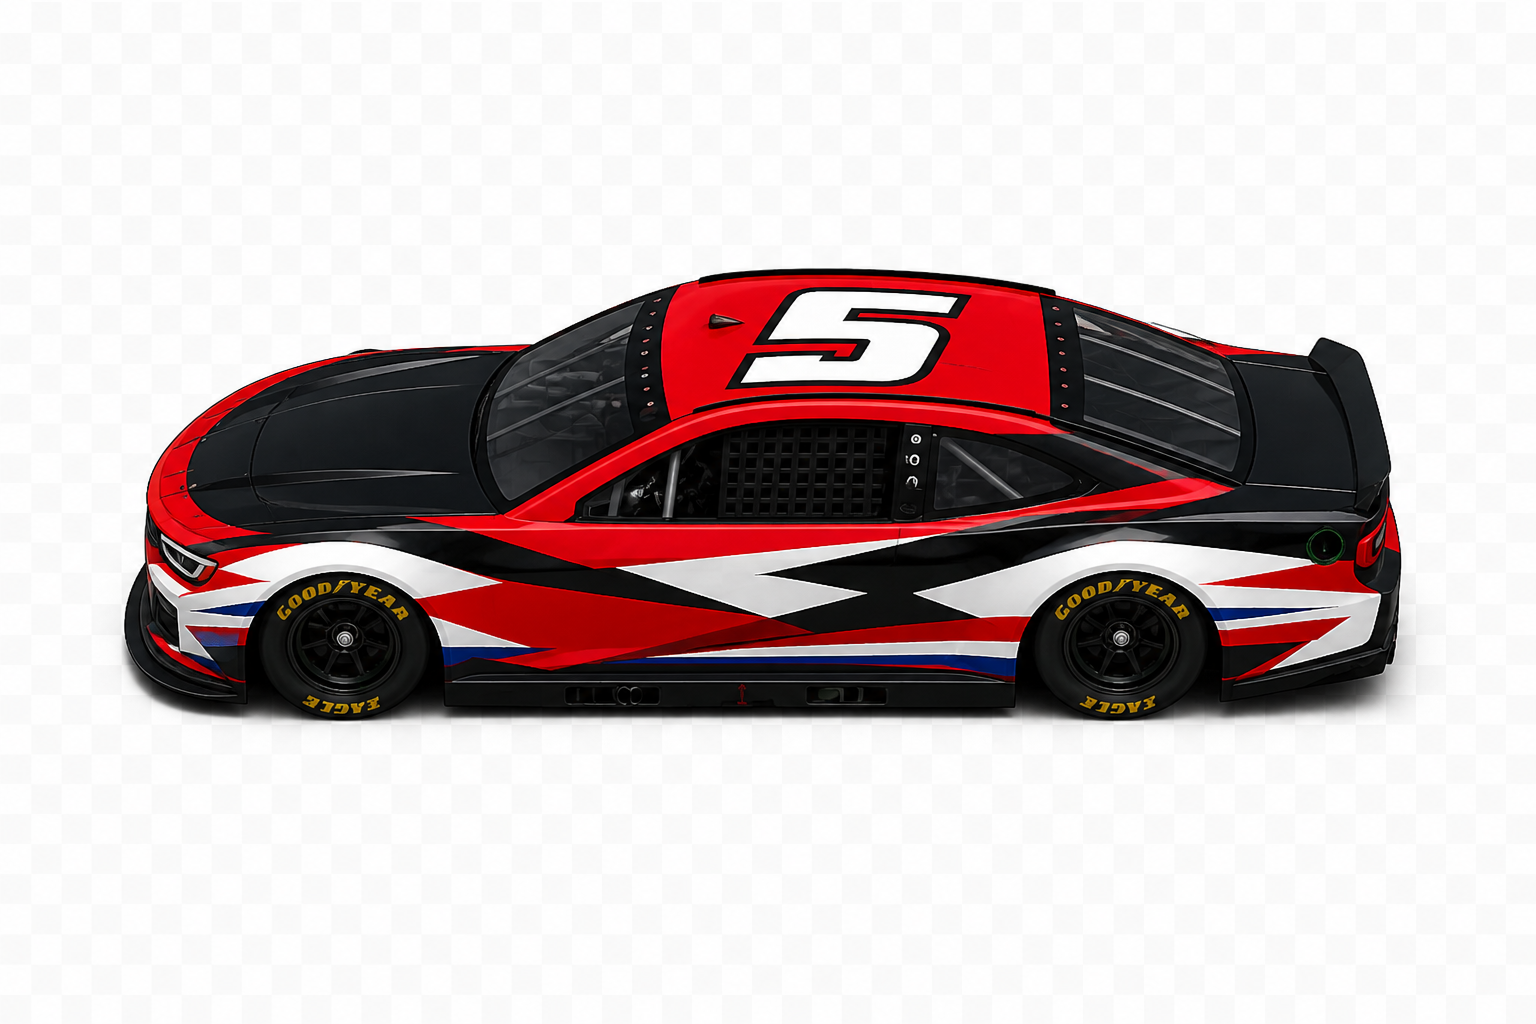
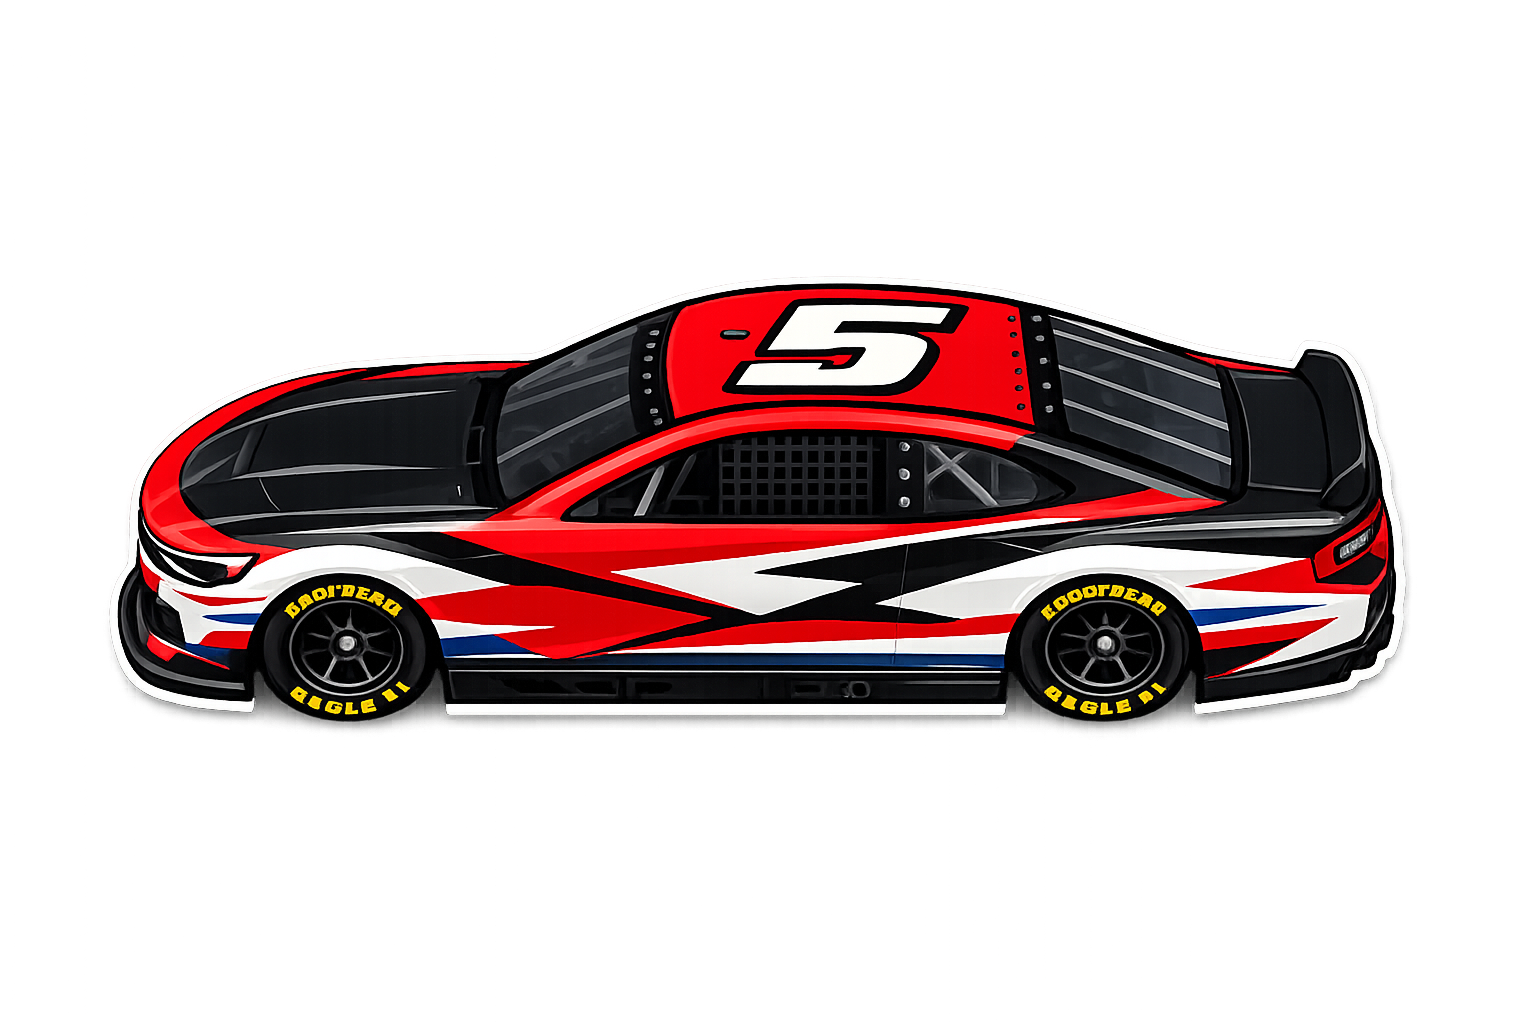
Nouveau car-red.png, image 98%, numéro 5, indicateurs mur/apron
- Remplace car-red.png par la nouvelle version
- Image voiture rouge remplit 98% de la case
- CAR_LBL red : 'R' → '5'
- Strip mur (haut) : indicateur '⬅ 🛞-1 ⚙-1' (conséquence toucher mur)
- Strip apron (bas) : indicateur '⬅ 🛞-1' (conséquence toucher apron)
- Drapeau jaune déjà codé : isYellowFlag() détecte 4+ dés identiques

https://claude.ai/code/session_016ULjS5sK1wzyLYwtGwC2Eo

Changed region(s): [[0.0625, 0.25, 0.9375, 0.7188]]

diff --git a/index.html b/index.html
@@ -85,7 +85,7 @@ body{background:#d4d8df;color:#1e293b;font-family:'Segoe UI',Arial,sans-serif;mi
 .car{display:flex;align-items:center;justify-content:center;font-weight:800;line-height:1;transition:transform .2s;position:relative;z-index:3}
 .car.player-car{width:52px;height:52px;border-radius:50%;background:#0d9488;color:#fff;font-size:1.35rem;box-shadow:0 0 0 3px #fff,0 0 0 6px #0d9488;animation:player-pulse 2s ease-in-out infinite}
 .car.rival-car{width:54px;height:48px;border-radius:9px;font-size:.6rem;color:#fff;text-transform:uppercase}
-.car.car-img{width:92%;height:88%;object-fit:contain;background:transparent !important;border-radius:0 !important;box-shadow:none !important}
+.car.car-img{width:98%;height:98%;object-fit:contain;background:transparent !important;border-radius:0 !important;box-shadow:none !important}
 .car.moved{animation:car-moved .4s ease-out}
 
 /* ─ STRIPS LATÉRAUX (contenu horizontal) ─── */
@@ -97,6 +97,9 @@ body{background:#d4d8df;color:#1e293b;font-family:'Segoe UI',Arial,sans-serif;mi
 .strip-sep{width:1px;height:32px;background:rgba(0,0,0,.12);margin:0 .15rem;flex-shrink:0}
 .strip-dice{display:flex;flex-direction:row;gap:3px;align-items:center}
 .strip-die{width:24px;height:24px;border-radius:.28rem;display:flex;align-items:center;justify-content:center;font-size:.75rem;font-weight:700;color:#fff;flex-shrink:0}
+.strip-consequence{font-size:.6rem;font-weight:800;white-space:nowrap;flex-shrink:0;padding:.15rem .3rem;border-radius:.3rem}
+.wall-consequence{background:rgba(30,58,138,.15);color:#1e3a8a}
+.apron-consequence{background:rgba(146,64,14,.15);color:#92400e}
 
 /* ─ GAUGES ───────────────────────────────── */
 .gauges-bar{background:#fff;border-radius:.5rem;padding:.5rem;box-shadow:0 1px 3px #0001}
@@ -311,7 +314,7 @@ const ARROWS=[
 const CAR_IMG={red:'car-red.png'};
 const CAR_BG ={player:'#0d9488',red:'#ef4444',blue:'#3b82f6',green:'#22c55e',yellow:'#eab308',cyan:'#06b6d4'};
 const CAR_FG ={player:'#fff',red:'#fff',blue:'#fff',green:'#fff',yellow:'#fff',cyan:'#fff'};
-const CAR_LBL={player:'★',red:'R',blue:'B',green:'G',yellow:'J',cyan:'C'};
+const CAR_LBL={player:'★',red:'5',blue:'B',green:'G',yellow:'J',cyan:'C'};
 const DIE_BG ={red:'#ef4444',blue:'#3b82f6',green:'#22c55e',yellow:'#eab308',cyan:'#06b6d4'};
 const GAUGE_ICONS={tires:'🛞',fuel:'⛽',engine:'⚙'};
 
@@ -916,7 +919,7 @@ function renderLap(){
   document.getElementById('lap-num').textContent=(S.lapStep+1)*10;
 }
 
-// Classement dans le strip apron (bas, horizontal)
+// Classement + rappel conséquence apron (bas, horizontal)
 function renderStandings(){
   const el=document.getElementById('apron-strip');
   if(!el)return;
@@ -927,10 +930,12 @@ function renderStandings(){
         <div class="strip-pnum">${i+1}</div>
         <div class="strip-car" style="background:${CAR_BG[id]};${isP?'outline:2px solid #fff;outline-offset:-1px':''}">${CAR_LBL[id]}</div>
       </div>`;
-    }).join('');
+    }).join('')+
+    `<div class="strip-sep" style="margin-left:auto"></div>
+     <div class="strip-consequence apron-consequence">⬅ 🛞-1</div>`;
 }
 
-// Vitesse + dés dans le strip mur (haut, horizontal)
+// Vitesse + dés + rappel conséquence mur (haut, horizontal)
 function renderSideWall(){
   const el=document.getElementById('wall-strip');
   if(!el)return;
@@ -943,7 +948,9 @@ function renderSideWall(){
     <div class="strip-spd">${S.speed||'—'}</div>
     <div class="strip-sep"></div>
     <div class="strip-lbl">DÉS</div>
-    <div class="strip-dice">${diceHtml}</div>`;
+    <div class="strip-dice">${diceHtml}</div>
+    <div class="strip-sep" style="margin-left:auto"></div>
+    <div class="strip-consequence wall-consequence">⬅ 🛞-1 ⚙-1</div>`;
 }
 
 function renderLog(){
